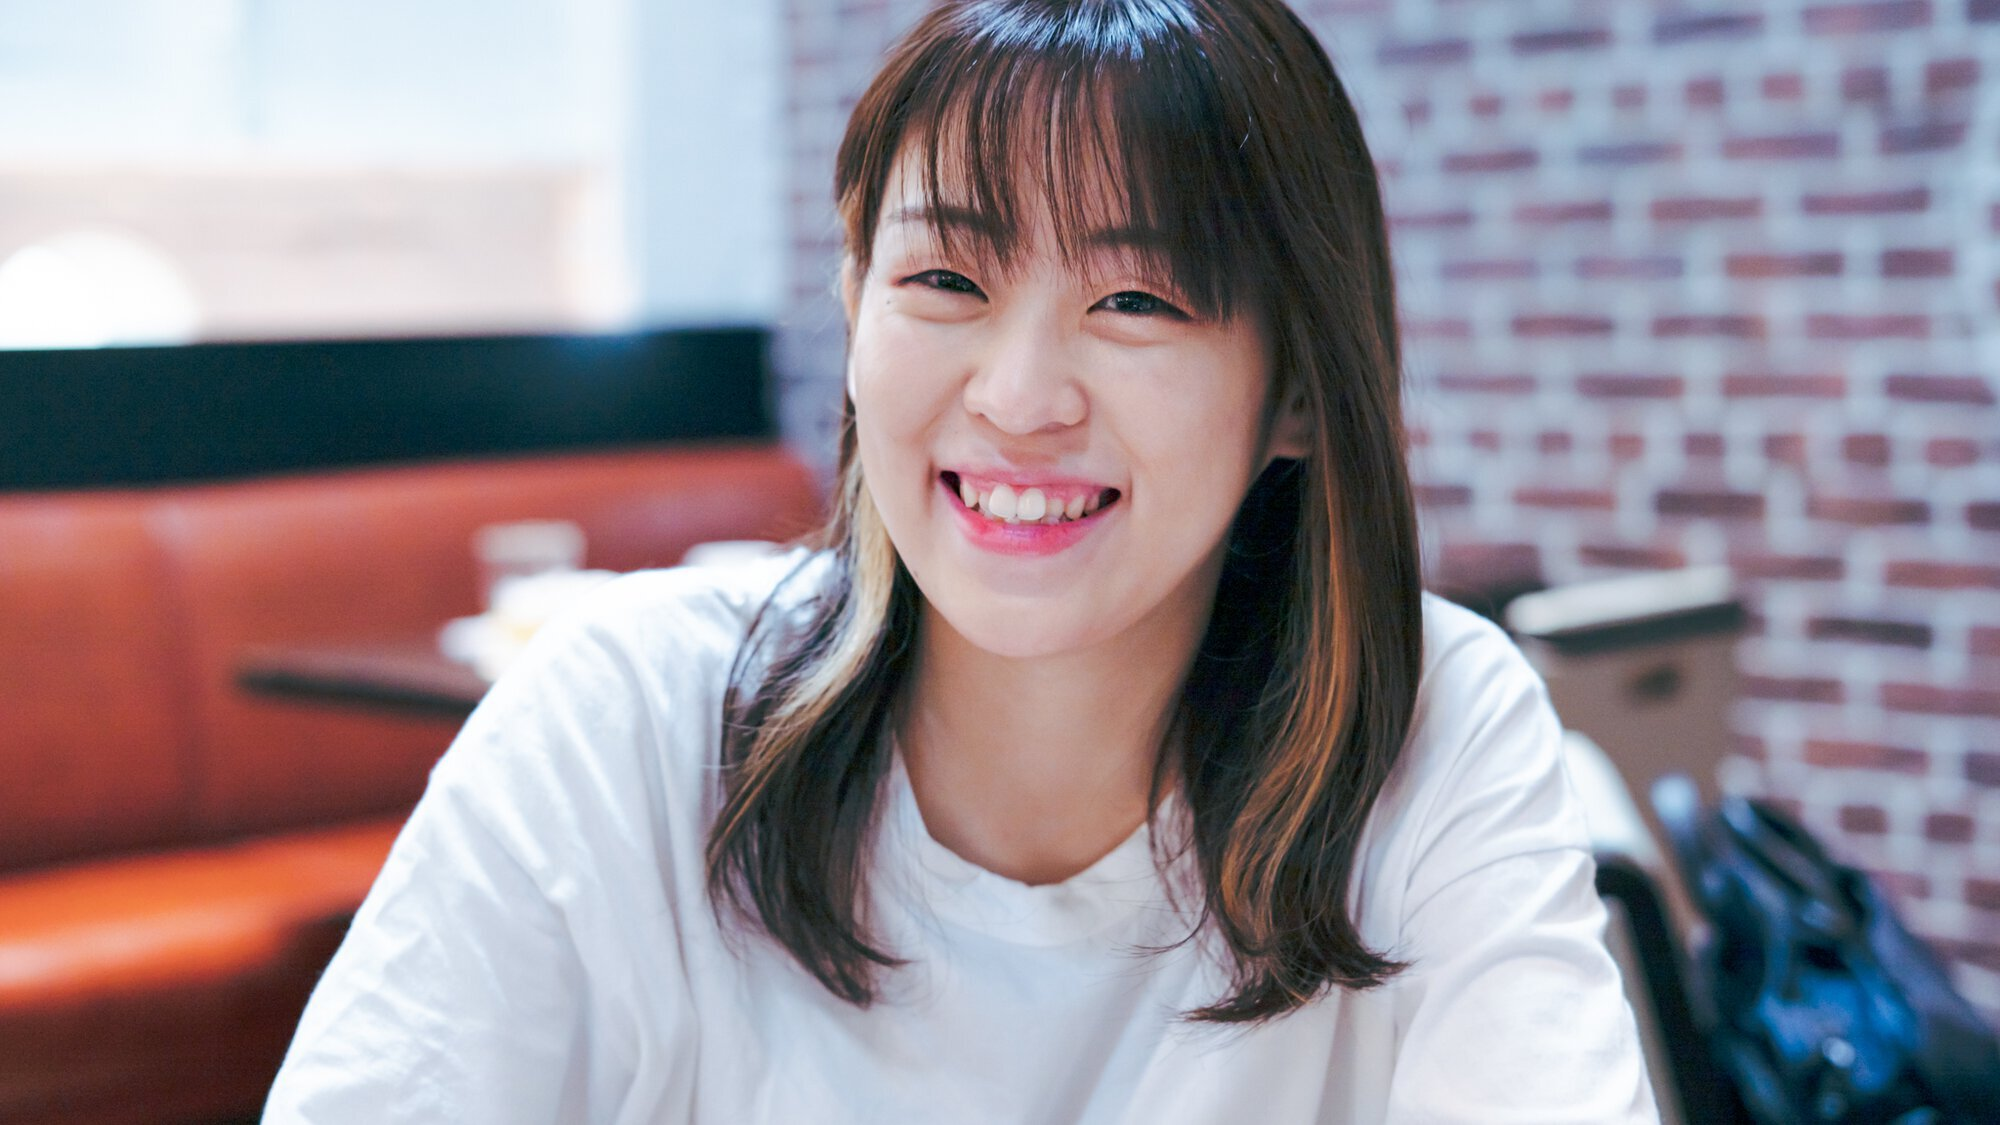
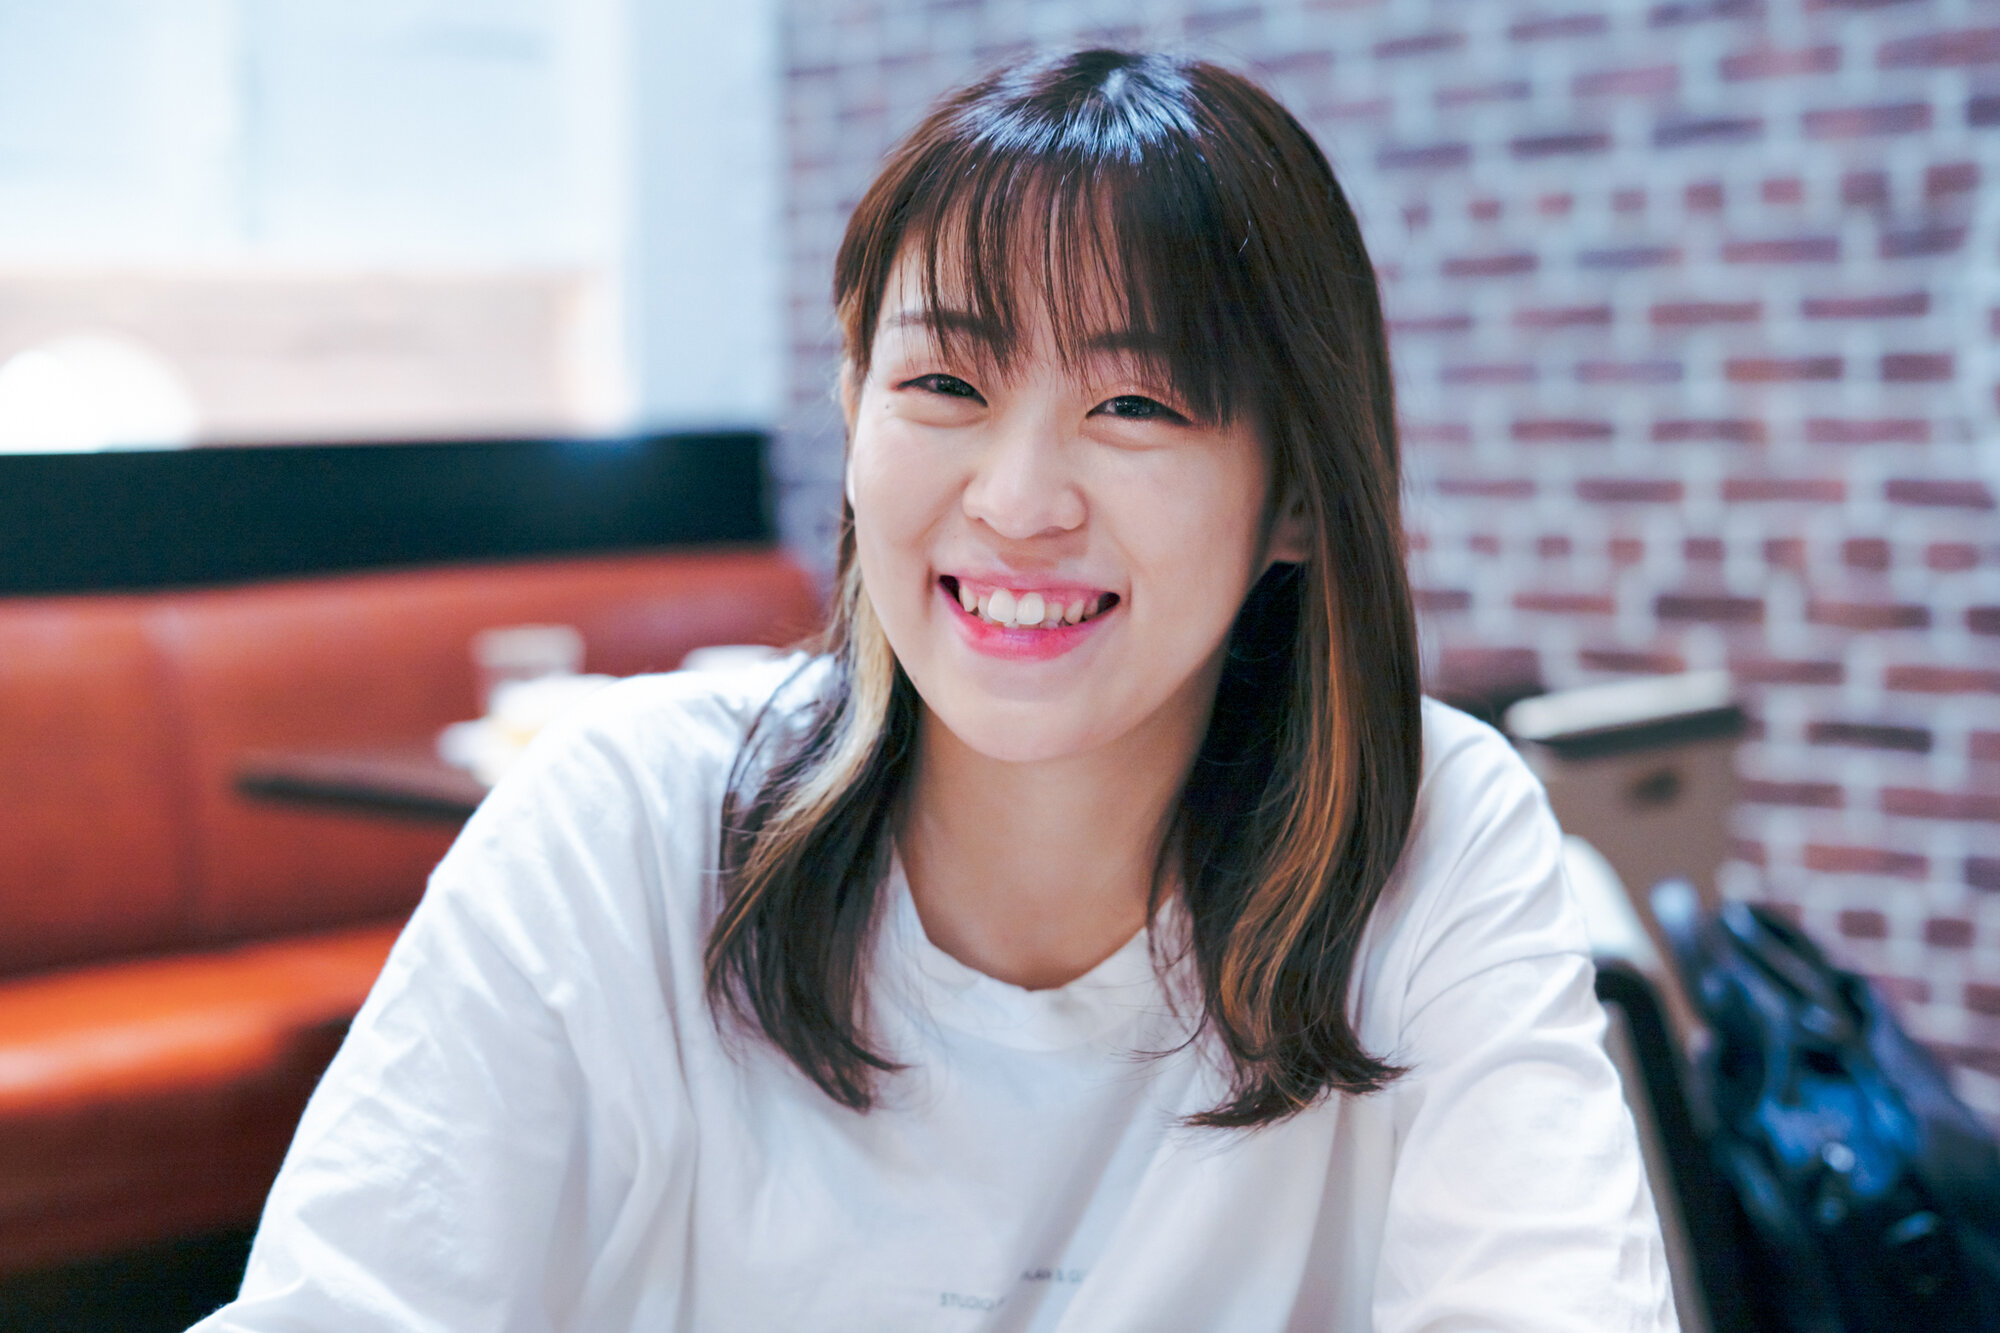
[update] photos

diff --git a/index.html b/index.html
@@ -39,7 +39,7 @@
         <h1 class="sec-title">出展作品</h1>
         <div class="works-all">
           <before-button data-photo-id="ciel" data-pos-x="73" data-zoom="2.1"></before-button>
-          <before-button data-photo-id="jesse" data-pos-x="41" data-zoom="1.1"></before-button>
+          <before-button data-photo-id="jesse" data-pos-x="43" data-zoom="1.1"></before-button>
           <before-button data-photo-id="gakki" data-pos-x="39"></before-button>
           <before-button data-photo-id="a-kichi" data-pos-x="50"></before-button>
           <before-button data-photo-id="antony" data-pos-x="68"></before-button>
@@ -52,7 +52,7 @@
           <hr />
           <before-button data-photo-id="sawakkuma" data-pos-x="54" data-zoom="2"></before-button>
           <before-button data-photo-id="chihiro" data-pos-x="43"></before-button>
-          <before-button data-photo-id="ayumin"></before-button>
+          <before-button data-photo-id="ayumin" data-pos-x="70"></before-button>
           <before-button data-photo-id="ebisuke" data-pos-x="100"></before-button>
           <before-button data-photo-id="lila" data-pos-x="50" data-zoom="2.2"></before-button>
           <hr />
@@ -62,7 +62,7 @@
           <before-button data-photo-id="switchro" data-pos-x="50"></before-button>
           <before-button data-photo-id="gassi" data-pos-x="50"></before-button>
           <hr />
-          <before-button data-photo-id="mittan" data-pos-x="43"></before-button>
+          <before-button data-photo-id="mittan" data-pos-x="75" data-zoom="2"></before-button>
           <before-button data-photo-id="watayo" data-pos-x="55" data-zoom="2.3"></before-button>
           <before-button data-photo-id="co4" data-pos-x="50"></before-button>
         </div>
